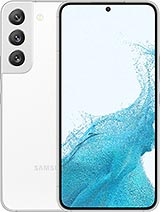
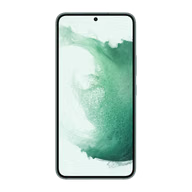
feat: added Samsung Galaxy S22 5G models and image

diff --git a/lib/pricingCalculator.ts b/lib/pricingCalculator.ts
@@ -610,7 +610,7 @@ export function calculateFhoneifyPrice(
   }
 
   // EXACT UI MATCHING FOR NON-ULTRA SAMSUNG GALAXY MODELS (FLAWLESS "GET UPTO" PRICING)
-  if (!isApple && (safeModel.toLowerCase() === 'samsung galaxy s25 plus 5g' || safeModel.toLowerCase() === 'samsung galaxy s25 5g' || safeModel.toLowerCase() === 'samsung galaxy s24 fe 5g' || safeModel.toLowerCase() === 'samsung galaxy s22 plus 5g')) {
+  if (!isApple && (safeModel.toLowerCase() === 'samsung galaxy s25 plus 5g' || safeModel.toLowerCase() === 'samsung galaxy s25 5g' || safeModel.toLowerCase() === 'samsung galaxy s24 fe 5g' || safeModel.toLowerCase() === 'samsung galaxy s22 plus 5g' || safeModel.toLowerCase() === 'samsung galaxy s22 5g')) {
     const isFlawlessPhysical = screen_body_sum === 0 && diagnostics.calls !== false && diagnostics.touch !== false && diagnostics.originalScreen !== false && (diagnostics.defects || []).length === 0 && (diagnostics.hardware || []).length === 0;
     const hasBox = (diagnostics.accessories || []).includes('box');
     

diff --git a/lib/seed_devices.ts b/lib/seed_devices.ts
@@ -21493,5 +21493,23 @@ export const SEED_DEVICES: any[] = [
     "ram": "8 GB",
     "color": "Default",
     "basePrice": 17120
+  },
+  {
+    "id": "samsung-galaxy-s22-5g-8-256",
+    "brand": "Samsung",
+    "model": "Samsung Galaxy S22 5G",
+    "storage": "256 GB",
+    "ram": "8 GB",
+    "color": "Default",
+    "basePrice": 16810
+  },
+  {
+    "id": "samsung-galaxy-s22-5g-8-128",
+    "brand": "Samsung",
+    "model": "Samsung Galaxy S22 5G",
+    "storage": "128 GB",
+    "ram": "8 GB",
+    "color": "Default",
+    "basePrice": 16090
   }
 ];
